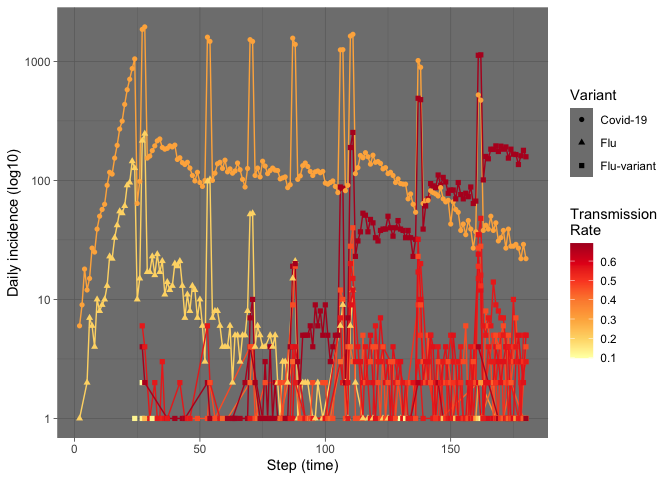
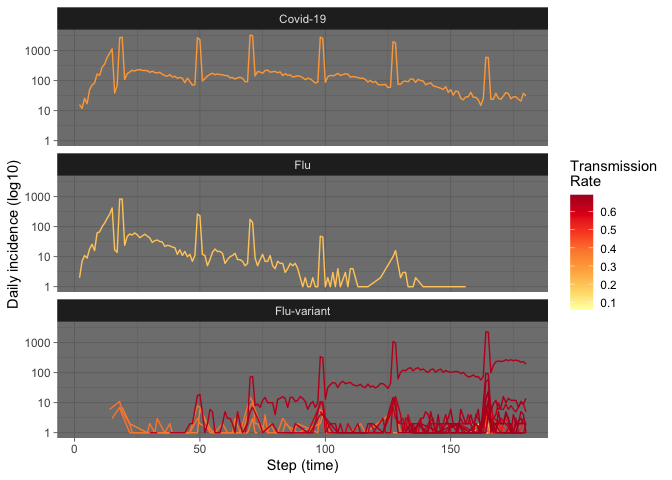
Transmission network and incidence per variant

diff --git a/main.cpp b/main.cpp
@@ -36,7 +36,7 @@ EPI_NEW_GLOBALFUN(full_isolation, int)
     if (new_exposed > 1000)
         m->set_param("Contact rate",  0.3);
     if (new_exposed < 100)
-        m->set_param("Contact rate",  5);
+        m->set_param("Contact rate",  10);
 
 };
 
@@ -48,7 +48,7 @@ int main() {
         "Covid-19",
         2e5,    // Population size
         0.0001, // ~20 cases
-        5,      // Contact rate
+        10,      // Contact rate
         0.3,    // Transmission rate
         7.0,    // Mean incubation
         1.0/7.0 // Recovery rate

diff --git a/README.md b/README.md
@@ -31,9 +31,9 @@ the n
     Agents' data        : (none)
     Number of entities  : 0
     Days (duration)     : 180 (of 180)
-    Number of viruses   : 137
-    Last run elapsed t  : 748.00ms
-    Last run speed      : 48.10 million agents x day / second
+    Number of viruses   : 205
+    Last run elapsed t  : 1.00s
+    Last run speed      : 35.25 million agents x day / second
     Rewiring            : off
 
     Global events:
@@ -43,7 +43,7 @@ the n
     Virus(es):
      - Covid-19
      - Flu
-     ...and 135 more variants...
+     ...and 203 more variants...
 
     Tool(s):
      - Vaccine
@@ -55,10 +55,10 @@ the n
      - Prob. Transmission   : 0.3000
 
     Distribution of the population at time 180:
-      - (0) Susceptible : 199960 -> 145499
-      - (1) Exposed     :     40 -> 1210
-      - (2) Infected    :      0 -> 1482
-      - (3) Recovered   :      0 -> 51809
+      - (0) Susceptible : 199960 -> 128884
+      - (1) Exposed     :     40 -> 1754
+      - (2) Infected    :      0 -> 2261
+      - (3) Recovered   :      0 -> 67101
 
     Transition Probabilities:
      - Susceptible  1.00  0.00  0.00  0.00
@@ -83,7 +83,7 @@ ggplot(incidence, aes(x = date, y = counts)) +
 
     Warning in scale_y_log10(): log-10 transformation introduced infinite values.
 
-![](README_files/figure-commonmark/unnamed-chunk-2-1.png)
+![](README_files/figure-commonmark/daily-incidence-1.png)
 
 ``` r
 virus_hist <- fread("res/transmissions.tsv")
@@ -106,9 +106,9 @@ ggplot(daily_virus, aes(
   x = date, y = count, color = t_rate, group=t_rate)) +
   scale_color_distiller(palette="YlOrRd", direction = 1) +
   geom_line() +
-  geom_point(aes(shape = vlabel)) +
   scale_y_log10() +
   theme_dark() +
+  facet_wrap(vars(vlabel), nrow = 3) +
   labs(
     color = "Transmission\nRate",
     shape = "Variant",
@@ -118,3 +118,79 @@ ggplot(daily_virus, aes(
 ```
 
 ![](README_files/figure-commonmark/variants-1.png)
+
+``` r
+# Reading and preping the data
+virus_info <- fread("res/virus_info.tsv")
+virus_info[, t_rate := as.double(gsub(".+-0\\.", "0.", virus))]
+```
+
+    Warning in eval(jsub, SDenv, parent.frame()): NAs introduced by coercion
+
+``` r
+virus_info[is.na(t_rate), t_rate := fifelse(
+  virus == "Covid-19", .3, .2
+)]
+
+virus_info[, label := fifelse(
+  virus == "Flu",
+  "Base\nvariant",
+  ""
+)]
+
+# Generating edges
+edges <- virus_info[, .(parent, virus_id)]
+edges <- edges[ parent >= 0 ]
+
+library(netplot)
+```
+
+    Loading required package: grid
+
+``` r
+library(igraph)
+```
+
+
+    Attaching package: 'igraph'
+
+    The following object is masked from 'package:netplot':
+
+        ego
+
+    The following objects are masked from 'package:stats':
+
+        decompose, spectrum
+
+    The following object is masked from 'package:base':
+
+        union
+
+``` r
+virus_net <- graph_from_data_frame(
+  d = edges,
+  vertices = virus_info[virus != "Covid-19"]
+)
+
+
+col <- grDevices::colorRamp(c("yellow", "tomato"))(
+  V(virus_net)$t_rate / 0.7
+) |> rgb(maxColorValue = 255)
+
+set.seed(4341)
+nplot(
+  virus_net,
+  vertex.size = ~ t_rate,
+  vertex.color = col,
+  vertex.label = V(virus_net)$label,
+  edge.curvature = pi/8,
+  edge.line.breaks = 20,
+  vertex.nsides = 20,
+  vertex.label.color = "black",
+  vertex.label.show = 1,
+  vertex.label.fontsize = 10,
+  vertex.size.range = c(.005, .03, 4)
+  )
+```
+
+![](README_files/figure-commonmark/phylogeny-1.png)
